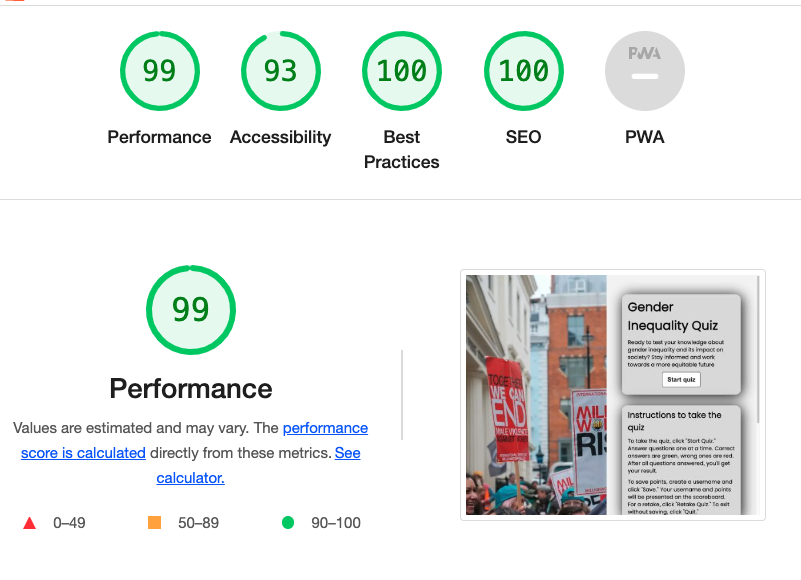
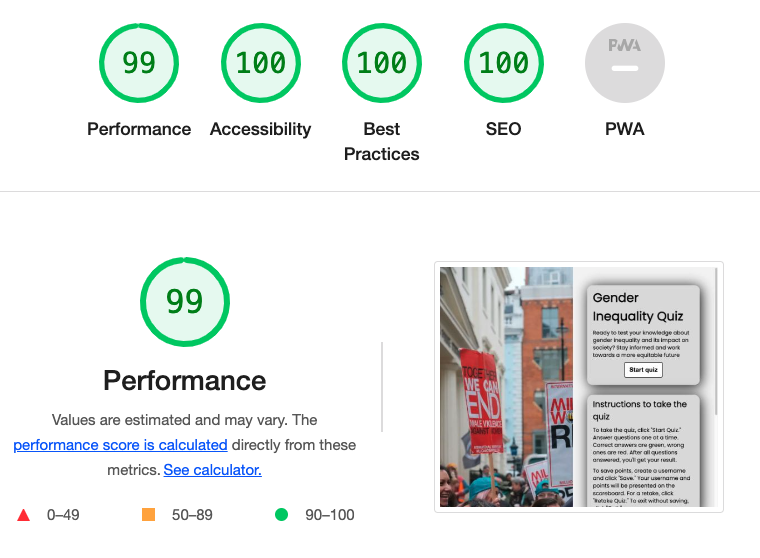
Add new screen shots from testing in Google Lighthouse

diff --git a/README.md b/README.md
@@ -109,7 +109,7 @@ The following validators were used and detected errors were then fixed.
 - [CSS Validator](https://jigsaw.w3.org/css-validator/) 
 - [JSHint](https://jshint.com/)
 
-**Lighthouse results**
+**Google Lighthouse results**
 ![alt-text](documentation/lighthouse_desktop.png)
 ![alt-text](documentation/lighthouse_mobile.png)
 
